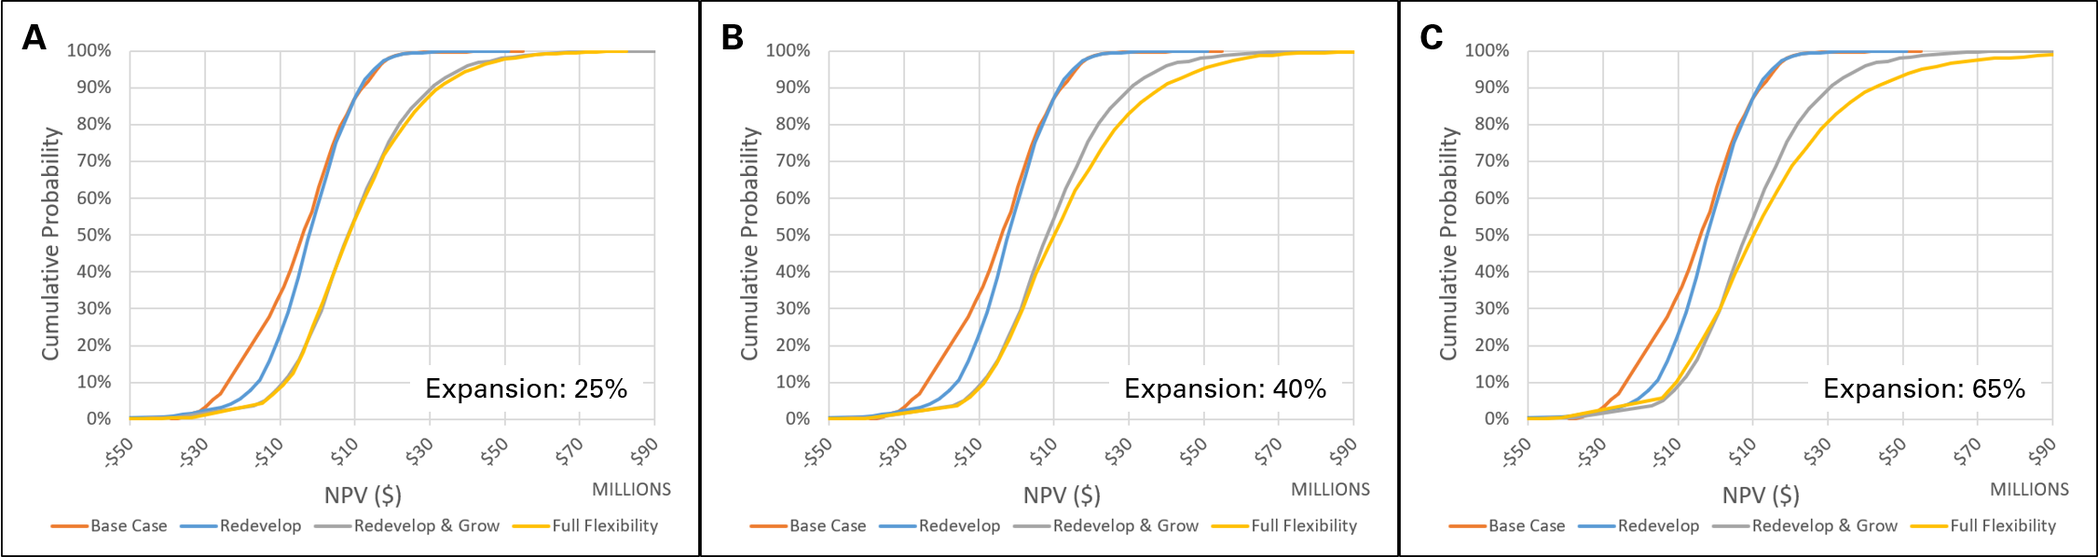
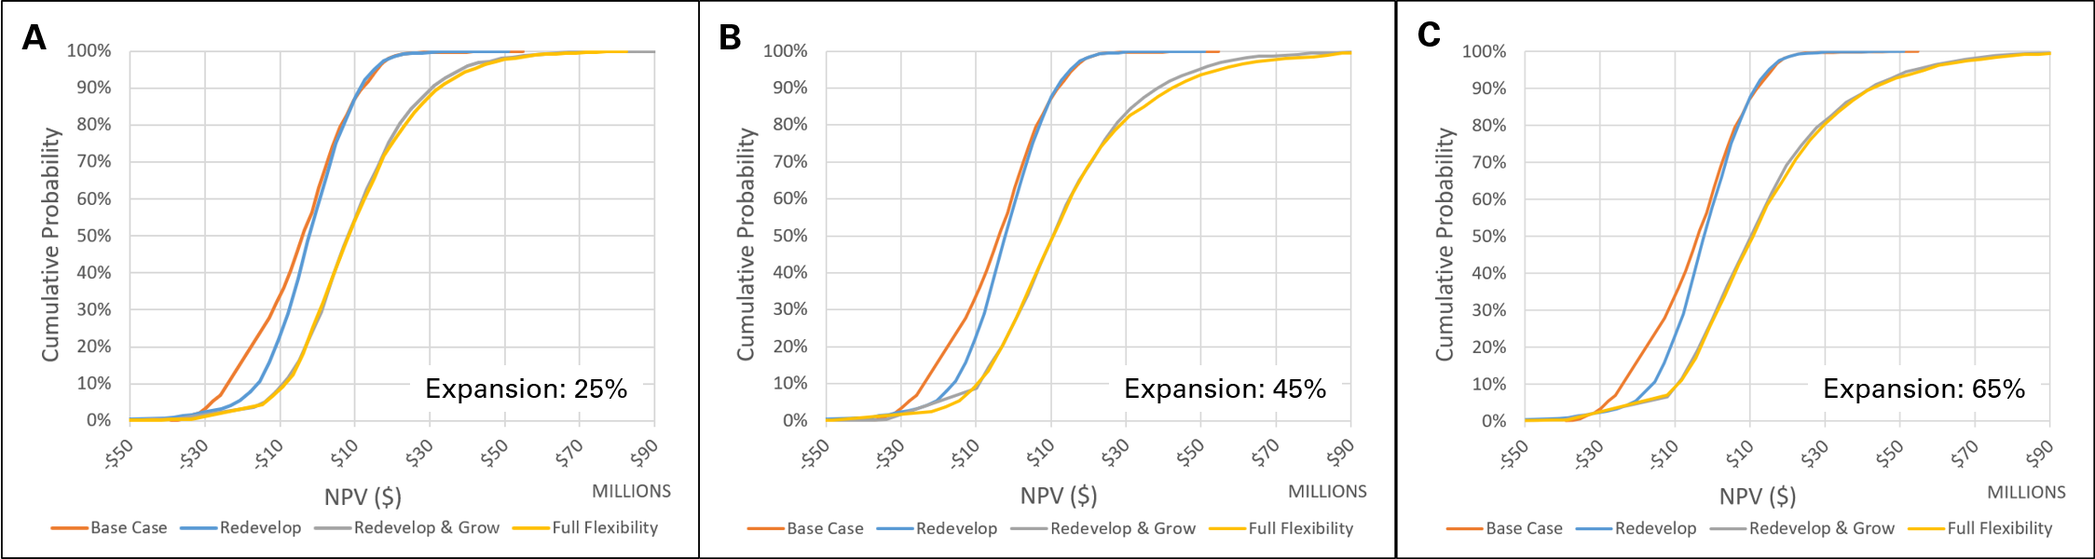
completed Chapters 4 and 6

diff --git a/templates/chap6.tex b/templates/chap6.tex
@@ -10,7 +10,7 @@ Chapter \ref{ch4:cm_prep} outlined the cost modeling strategy for a hypothetical
 
 Section \ref{ch4:cm_rev} described the use of brine effectiveness in the cost model for determining the power output of a binary cycle plant for a given production temperature and flow rate. This formulation provides a choice of how to manage the cost model mechanics due to a trade-off between plant capacity and flow rate for a given brine effectiveness (Equation \ref{eq:cm_rev}).
 
-In addition, installation of the Lightning Dock expansion can take place over a variety of different deployment schedules due to the modularity of the system. Rather than drill ten wells and install five binary cycle plants all at once, delaying aspects of the installation can be financially beneficial and less of an initial risk for the project.  
+In addition, installation of the Lightning Dock expansion can take place over a variety of different deployment schedules due to the modularity of the system. Rather than drill ten wells and install five binary cycle plants all at once, delaying aspects of the installation can be financially beneficial and less of an initial risk for the project.
 
 Figure \ref{fig:static_model_compare} shows the results for the pre-set capacity and pre-set flow rate static models for sixty (60) installation schedule permutations. The pre-set capacity model results in project losses of \$20 million or more for all tested installation options. On the other hand, the fixed flow-rate model only drops below \$0 NPV for a handful of project plans, achieving \$3.7 million NPV for the case marked with a red diamond where three (3) modules are installed up front and two (2) additional ones go live after a year of operation. Based on these results, all cost models used in the rest of this analysis apply a fixed flow rate per production well and derive the aggregate electricity generation numbers based on the temperature of the produced brine.
 
@@ -65,9 +65,9 @@ NPV & \$1.0 \\ \hline
 
 Monte Carlo simulation is applied to all of the probabilistic models to estimate the range of model behavior. For each model, results represent 2000 simulated runs where each realization defines a unique combination of variable values sampled from the PDFs reviewed in Section \ref{ch4:pdfs}. 
 
-Common methods for evaluating a Monte Carlo ensemble include building a NPV histogram, constructing a \acrlong{cdf} (\acrshort{cdf} or target curve), and averaging the results together for \acrlong{enpv} (\acrshort{enpv}). Other interesting metrics for model comparison include standard deviation, individual percentiles, and direct comparison with the static model NPV (NPV$_{s}$). Standard deviation is the measure of how tightly the results cluster around the central value. Distributions with low standard deviations are sometimes referred to as robust distributions. P$_{50}$ marks the the median, and P$_{05}$ and P$_{95}$ define marginal percentiles for 5\% Value At Risk (VAR) and Value At Gain (VAG), respectively. Each of these measures is reported for the probabilistic model cases described below.
+Common methods for evaluating a Monte Carlo ensemble include building a NPV histogram, constructing a \acrlong{cdf} (\acrshort{cdf} or target curve), and averaging the results together for \acrlong{enpv} (\acrshort{enpv}). Other interesting metrics for model comparison include standard deviation, individual percentiles, and direct comparison with the static model NPV (NPV$_{s}$). Standard deviation is the measure of how tightly the results cluster around the central value. Distributions with low standard deviations are sometimes referred to as robust distributions. P$_{50}$ marks the the median, and P$_{05}$ and P$_{95}$ define marginal percentiles for 5\% \acrlong{var} (\acrshort{var}) and \acrlong{vag} (\acrshort{vag}), respectively. Each of these measures is reported for the probabilistic model cases described below.
 
-\section{Base Case Probabilistic Model}
+\section{Base Case Model}
 \label{ch6:base_case}
 
 The Base Case model mimics the Static model in form, but incorporates uncertainties in drilling \& completions costs, electricity pricing, geothermal gradient, reservoir temperature, and thermal drawdown rate to provide a more realistic forecast. No decision rules are included in this scenario. 
@@ -82,14 +82,14 @@ The Base Case ensemble shows a symmetric, pseudo-Gaussian distribution of NPV re
 \begin{figure}[!htp]
 \centering
 \includegraphics[width=.85\textwidth]{templates/images/Figure-Base_Case_Histogram.png}
-\caption[Probabilistic Base Case histogram]{Base Case probabilistic cost model histogram illustrating the distribution of 2000 model realizations. NPV is reported in \$M, where M is million.}
+\caption[Base Case histogram]{Base Case probabilistic cost model histogram illustrating the distribution of 2000 model realizations. NPV is reported in \$M, where M is million.}
 \label{fig:base_case_hist}
 \end{figure}
 
 \begin{figure}[!htp]
 \centering
 \includegraphics[width=.85\textwidth]{templates/images/Figure-Base_Case_CDF.png}
-\caption[Probabilistic Base Case CDF]{Cumulative distribution function for the Base Case probabilistic cost model. The curve summarizes results from 2000 model realizations. NPV is reported in \$M, where M is million.}
+\caption[Base Case CDF]{Cumulative distribution function for the Base Case probabilistic cost model. The curve summarizes results from 2000 model realizations. NPV is reported in \$M, where M is million.}
 \label{fig:base_case_cdf}
 \end{figure}
 
@@ -116,7 +116,8 @@ P95 NPV & \$15.9M \\ \hline
 \label{tab:base_stats}
 \end{table}
 
-\section{Redevelop Case Probabilistic Model}
+\section{Redevelop Case Model}
+\label{ch6:redevelop_case}
 
 The Redevelop Case model extends the Base Case with a redevelopment plan for the geothermal field to counter thermal decline in the fluid pathways through the reservoir. The Redevelopment decision rule (Section \ref{ch4:dr_redevelop}) is triggered when thermal drawdown causes the produced brine to drop below a threshold temperature. As with the Base Case, model uncertainties include drilling \& completions costs, electricity pricing, geothermal gradient, reservoir temperature, and thermal drawdown rate.
 
@@ -130,14 +131,14 @@ Standard deviation of the ensemble distribution is less than observed for the Ba
 \begin{figure}[!htp]
 \centering
 \includegraphics[width=.85\textwidth]{templates/images/Figure-Redevelop_Case_Histogram.png}
-\caption[Probabilistic Redevelop Case histogram]{Redevelop Case probabilistic cost model histogram illustrating the distribution of 2000 model realizations. NPV is reported in \$M, where M is million.}
+\caption[Redevelop Case histogram]{Redevelop Case probabilistic cost model histogram illustrating the distribution of 2000 model realizations. NPV is reported in \$M, where M is million.}
 \label{fig:redevelop_case_hist}
 \end{figure}
 
 \begin{figure}[!htp]
 \centering
 \includegraphics[width=.85\textwidth]{templates/images/Figure-Redevelop_Case_CDF.png}
-\caption[Probabilistic Redevelop Case CDF]{Cumulative distribution function for the Redevelop Case probabilistic cost model. The curve summarizes results from 2000 model realizations. NPV is reported in \$M, where M is million.}
+\caption[Redevelop Case CDF]{Cumulative distribution function for the Redevelop Case probabilistic cost model. The curve summarizes results from 2000 model realizations. NPV is reported in \$M, where M is million.}
 \label{fig:redevelop_case_cdf}
 \end{figure}
 
@@ -164,14 +165,15 @@ P95 NPV & \$15.1M \\ \hline
 \label{tab:redevelop_stats}
 \end{table}
 
-\section{Redevelop \& Grow Case Probabilistic Model}
+\section{Redevelop \& Grow Case Model}
+\label{ch6:grow_case}
 
 The Redevelop \& Grow Case model builds on the Redevelop Case with a decision rule around increasing capacity (Section \ref{ch4:dr_grow}). Specifically, when electricity prices rise by an amount larger than the monitored threshold, more power plant modules are installed to capitalize on the increased prices and inferred demand. Like the other probabilistic models, values for drilling \& completions costs, electricity pricing, geothermal gradient, reservoir temperature, and thermal drawdown rate are directly sampled from probability distribution functions (Section \ref{ch4:pdfs}) as part of the Monte Carlo simulation.
 
 \subsection{Model Results}
 \label{ch6:grow_results}
 
-Redevelop \& Grow model results use a field expansion amount of 25\% when the Grow Capacity decision rule is triggered. Assuming the PPA with the purchasing utility company is successfully renegotiated at the time of the expansion, this model results in a dramatic change in project value. ENPV is \$9.7 million, over \$12 million better than the Redevelop Case and over 800\% greater than Static model NPV (Table \ref{tab:grow_stats}). The case shows notable improvement in both Value at Risk and Value at Gain; P$_{05}$ shifts by more than \$7 million to -\$14.2 million, and P$_{95}$ leaps to \$38.2 million as power plant growth captures market potential.
+Redevelop \& Grow model results use a field expansion amount of 25\% when the Capacity Growth decision rule is triggered. Assuming the PPA with the purchasing utility company is successfully renegotiated at the time of the expansion, this model results in a dramatic change in project value. ENPV is \$9.7 million, over \$12 million better than the Redevelop Case and over 800\% greater than Static model NPV (Table \ref{tab:grow_stats}). The case shows notable improvement in both Value at Risk and Value at Gain; P$_{05}$ shifts by more than \$7 million to -\$14.2 million, and P$_{95}$ leaps to \$38.2 million as power plant growth captures market potential.
 
 \begin{figure}[!htp]
 \centering
@@ -180,12 +182,12 @@ Redevelop \& Grow model results use a field expansion amount of 25\% when the Gr
 \label{fig:grow_case_hist}
 \end{figure}
 
-The histogram for Redevelop \& Grow skews noticeably to the left with a long tail of simulation runs marking high-value realizations of the model. Standard deviation of NPV increases compared to the Redevelop Only case, suggesting this model is less robust. However, the greater spread reflects more upside potential and is a desirable feature. It stands to reason then that robustness measured by standard deviation is not as useful a measure of design benefit as the other metrics in Table \ref{tab:grow_stats}. Figure \ref{fig:grow_case_cdf} illustrates the rightward shift of the target curve compared to those shown in Figures \ref{fig:base_case_cdf} and \ref{fig:redevelop_case_cdf}. Only 23\% of simulated results result in a project loss. 
+The histogram for Redevelop \& Grow skews noticeably to the right with a long tail of simulation runs marking high-value realizations of the model. Standard deviation of NPV increases compared to the Redevelop Only case, suggesting this model is less robust. However, the greater spread reflects more upside potential and is a desirable feature. It stands to reason then that robustness measured by standard deviation is not as useful a measure of design benefit as the other metrics in Table \ref{tab:grow_stats}. Figure \ref{fig:grow_case_cdf} illustrates the rightward shift of the target curve compared to those shown in Figures \ref{fig:base_case_cdf} and \ref{fig:redevelop_case_cdf}. Only 23\% of simulated results result in a project loss. 
 
 \begin{figure}[!htp]
 \centering
 \includegraphics[width=.85\textwidth]{templates/images/Figure-Grow_Case_CDF.png}
-\caption[Probabilistic Redevelop \& Grow Case CDF]{Cumulative distribution function for the Redevelop \& Grow Case probabilistic cost model. The curve summarizes results from 2000 model realizations. NPV is reported in \$M, where M is million.}
+\caption[Redevelop \& Grow Case CDF]{Cumulative distribution function for the Redevelop \& Grow Case probabilistic cost model. The curve summarizes results from 2000 model realizations. NPV is reported in \$M, where M is million.}
 \label{fig:grow_case_cdf}
 \end{figure}
 
@@ -212,27 +214,40 @@ P95 NPV & \$38.2M \\ \hline
 \label{tab:grow_stats}
 \end{table}
 
-\section{Full Flexibility Case Probabilistic Model}
+\section{Full Flexibility Case Model}
+\label{ch6:reduce_case}
+
+Full Flexibility adds a decision rule around reduction of aggregate plant capacity (Section \ref{ch4:dr_reduce}). If electricity prices drop by a threshold amount, power plant modules are proactively decommissioned to reduce electricity production and operating expenses. Redevelopment and Capacity Growth decision rules remain in effect, as does the random sampling treatment for drilling \& completions costs, electricity pricing, geothermal gradient, reservoir temperature, and thermal drawdown rate based on PDFs defined in Section \ref{ch4:pdfs}.
 
 \subsection{Model Results}
 \label{ch6:reduce_results}
 
+In a somewhat surprising outcome, the simulation for Full Flexibility results in an ENPV of \$6.7 million (Table \ref{tab:reduce_stats}). Although this value is 545\% greater than the Static model NPV, it falls short of the Redevelop \& Grow case by nearly \$3 million (see Table \ref{tab:grow_stats}). Both VAR and VAG show less attractive results as well; P$_{05}$ is -\$16.3M and P$_{95}$ is \$36.2 million, both $\approx \$2$ million worse than Redevelop \& Grow.  
+
 \begin{figure}[!htp]
 \centering
 \includegraphics[width=.85\textwidth]{templates/images/Figure-Reduce_Case_Histogram.png}
-\caption[Full Flexibility Case histogram]{CAPTION}
+\caption[Full Flexibility Case histogram]{Full Flexibility Case probabilistic cost model histogram illustrating the distribution of 2000 model realizations. NPV is reported in \$M, where M is million.}
 \label{fig:reduce_case_hist}
 \end{figure}
+
+The results histogram (Figure \ref{fig:reduce_case_hist}) shows the same right skew as the Redevelop \& Grow model but with a slightly more compact form based on the lower standard deviation (Table \ref{tab:reduce_stats}). The difference in median values between the two cases amounts to $\approx\$3$ million, further confirming the Full Flexibility case is entirely dominated by the Redevelop \& Grow case. Figure \ref{fig:reduce_case_cdf} depicts the case target curve. There is a steep climb beginning at -\$14 million such that 33\% of model realizations result in project losses --- 10\% more than Redevelop \& Grow.
 
 \begin{figure}[!htp]
 \centering
 \includegraphics[width=.85\textwidth]{templates/images/Figure-Reduce_Case_CDF.png}
-\caption[Full Flexibility Case CDF]{CAPTION}
+\caption[Full Flexibility Case CDF]{Cumulative distribution function for the Full Flexibility Case probabilistic cost model. The curve summarizes results from 2000 model realizations. NPV is reported in \$M, where M is million.}
 \label{fig:reduce_case_cdf}
 \end{figure}
 
+It is interesting to note that the modeled electricity forecast includes enough volatility to generate cases with both +20\% and -20\% price deviations (Figure \ref{fig:elec_price_prob}), potentially (and perhaps unrealistically) triggering both a capacity expansion and reduction within the same 30-year project lifespan. In addition, since modeled prices increase over time, except briefly when the randomly-placed step-change is negative, lost revenue from the utility forcing PPA renegotiations if electricity pricing went into a multi-year decline (e.g., Low Renewable Technology Cost case in Figure \ref{fig:EFS_electricification}) is not simulated here. These factors may play a role in the dominance of the Redevelop \& Grow case over Full Flexibility.
+
+Nevertheless, there is an additional simple explanation for the model behavior. If power plant modules are decommissioned, the model is more sensitive to the drop in revenue from reduced electricity generation than any benefit realized by discounted OPEX. The cost savings is just not significant enough to make up for less income.
+
 \subsection{Summary Statistics}
 \label{ch6:reduce_stats}
+
+Table \ref{tab:reduce_stats} outlines key statistical measures summarizing the performance of the Full Flexibility Case probabilistic cost model.
 
 \begin{table}[H]
 \centering
@@ -250,34 +265,59 @@ P95 NPV & \$36.2M \\ \hline
 \label{tab:reduce_stats}
 \end{table}
 
-\section{Full Flexibility Sensitivity Testing}
-\label{ch6:sensitivity}
+\section{Combined Model Comparison}
+
+Figure \ref{fig:all_case_cdf} illustrates the target curves for the four (4) probabilistic models discussed in the previous sections. The Base Case model is dominated by all other models on the low-side and merges with the Redevelop Case on the high-side. The Full Flexibility Case greatly improves on the Base and Redevelop Cases. Redevelop \& Grow appears farthest to the right, making it the preferred model for the cost model parameterization as described in Section \ref{ch4:cm_params}. 
 
 \begin{figure}[!htp]
 \centering
 \includegraphics[width=.85\textwidth]{templates/images/Figure-All_Case_CDF.png}
-\caption[All Cases CDF]{CAPTION}
+\caption[All Cases CDF]{Cumulative distribution functions for all probabilistic cases evaluated in Sections \ref{ch6:base_case} to \ref{ch6:reduce_case}. Each curve summarizes results from 2000 model realizations. NPV is reported in \$M, where M is million.}
 \label{fig:all_case_cdf}
 \end{figure}
+
+\section{Full Flexibility Case Sensitivity Testing}
+\label{ch6:sensitivity}
+
+In order to explore the hypothesis that the Full Flexibility Case model is responding to revenue losses, a series of sensitivity tests considered adjustments to the \textit{Reduction amount} parameter controlling how many modules are removed by the Capacity Reduction decision rule (Table \ref{tab:cm_econ_params}, Section \ref{ch4:dr_reduce}). The default value applied throughout this analysis has been 25\% to match the \textit{Expansion amount} parameter used by the Capacity Growth decision rule (Table \ref{tab:cm_econ_params}, Section \ref{ch4:dr_grow}). Sensitivity testing with the \textit{Expansion amount} parameter is also conducted.
 
 \subsection{Reduction Amount}
 \label{ch6:sens_redamt}
 
+The gap between the Full Flexibility (yellow) and Redevelop \& Grow (gray) curves broadens for higher \textit{Reduction amount} values. However, the curves begin to overlap for \textit{Reduction amount} values of $\leq{15}\%$. The difference is subtle, but the 5\% case shows a slight rightward step-out in the high-side values for Full Flexibility compared to the Redevelop \& Grow. This is not seen in the 4\% or 6\% scenarios, suggesting 5\% is the sweet spot for \textit{Reduction amount} when a significant electricity price drop is detected. For values above 5\%, the gain from OPEX reductions cannot overcome revenue lost from reduced capacity, which likely reflects the influence of PPA contracts that stabilize the year-to-year price paid for generated electricity. For values less than 5\%, the Full Flexibility Case merges with the Redevelop \& Grow Case as the number of decommissioned modules trends toward zero (0).
+
 \begin{figure}[!htp]
 \centering
 \includegraphics[width=.98\textwidth]{templates/images/Figure-Sensitivity_Reduction.pdf.png}
-\caption[Reduction Amount sensitivity test]{Reduction Amount sensitivity test}
+\caption[Reduction Amount sensitivity test]{\textit{Reduction amount} sensitivity test using model target curves. Each curve illustrates results for a Monte Carlo simulation with 2000 runs of the indicated models. \textit{Reduction amount} only impacts Full Flexibility Case (yellow), so Base Case (orange), Redevelop Case (blue), and Redevelop \& Grow Case (gray) remain unchanged. \textit{Reduction amount values} include A. 35\%, B. 25\%, C. 15\%, D. 6\%, E. 5\%, and F. 4\%. NPV is reported in \$M, where M is million.}
 \label{fig:sens_test_reduction}
 \end{figure}
 
 \subsection{Expansion Amount}
 \label{ch6:sens_expamt}
 
+A similar sensitivity test is executed by varying the \textit{Expansion amount} parameter while holding \textit{Reduction amount} at 5\%. Both the Full Flexibility and Redevelop \& Grow target curves respond to this parameter since both cases include the Capacity Growth decision rule (Section \ref{ch4:dr_grow}). Figure \ref{fig:sens_test_expansion} illustrates the results for step-wise increases to \textit{Expansion amount} by an increment of 20\%. 
+
+Full Flexibility and Redevelop \& Grow target curves closely match each other except in the high-side model realizations, i.e., those above \$20 million NPV, and in the low-side near -\$20 million NPV. The low side variability relates to the sparse count of model realizations at -\$20 million NPV in each Monte Carlo simulation. For the better-constrained high-side, Full Flexibility shows a slight advantage when \textit{Expansion amount} is 25\% and 65\%. However, the separation is more pronounced for a 45\% \textit{Expansion amount}. In this sweet spot case, Full Flexibility ENPV amounts to \$13.7 million, $\approx\$1$ million greater than that for Redevelop \& Grow. This optimized potential would be missed without testing and refining the project growth and reduction strategies through sensitivity testing and parameter tuning.
+
 \begin{figure}[!htp]
 \centering
 \includegraphics[width=.98\textwidth]{templates/images/Figure-Sensitivity_Expansion_Amount.png}
-\caption[Expansion Amount sensitivity test]{Expansion Amount sensitivity test}
+\caption[Expansion Amount sensitivity test]{\textit{Expansion amount} sensitivity test using model target curves. Each curve illustrates results for a Monte Carlo simulation with 2000 runs of the indicated models. \textit{Expansion amount} impacts both Redevelop \& Grow (gray) and Full Flexibility (yellow) target curves. Base Case (orange) and Redevelop Case (blue) remain unchanged. \textit{Expansion amount values} include A. 25\%, B. 45\%, and C. 65\%. NPV is reported in \$M, where M is million.}
 \label{fig:sens_test_expansion}
 \end{figure}
 
 \section{Recap}
+
+This chapter covered the execution of cost models described in Chapter \ref{ch4:cm_prep}. Results for a deterministic model and four (4) probabilistic models illustrate how incorporating uncertainties and decision rules into a modeling approach can provide important insights into potential project profit and loss. By comparing summary metrics and target curves, this methodology allows a decision-maker to test strategies for mitigating the risk of an unprofitable EGS expansion to an existing power plant.
+\\
+\\
+Key insights from cost modeling include:
+\begin{enumerate}
+    \item Static (deterministic) cost models that use average or most-likely parameter values are inherently flawed. They distort estimates of project value and may lead to poor project decisions.
+    \item Probabilistic model result ensembles from Monte Carlo simulation are best compared using target curves (CDFs) and summary statistics like ENPV. Solution distribution robustness is not necessarily desirable --- imbalance toward the high side means a model has more Value at Gain.
+    \item Redeveloping geothermal wells to counter reservoir thermal decline reduces downside risk but does not improve upside potential for the project.
+    \item Installing additional power plant modules in response to greater demand results in significantly greater project value with reduced downside risk.
+    \item Decommissioning power plant modules in response to plummeting prices generally does not capture greater project value, likely due to the lost revenue from reduced power generation outpacing savings in OPEX in this model formulation.
+    \item Sensitivity testing of decision rule parameters is a means of optimizing operational strategy and can reveal hidden project value.
+\end{enumerate}

diff --git a/templates/chap4.tex b/templates/chap4.tex
@@ -597,15 +597,15 @@ To counteract the negative impact of this decline, a full field re-drill campaig
 \textbf{Redevelopment Decision Rule}
 \label{ch4:dr_redevelop}
 \begin{enumerate}
-	\item Determine \textit{Thermal drawdown threshold} from \textit{Initial average reservoir temperature} using Equation \ref{eq:drawdown_threshold} for $\Delta T_{max}$.
-	\item Use \textit{Thermal drawdown rate} to calculate the number of years until the \textit{Thermal drawdown threshold} is reached based on Equation \ref{eq:redevelop_time}. Store this value in the \textit{Redevelop every} field.
-	\item In the annual cash flow analysis, \textbf{IF} power plant modules were installed a multiple of the \textit{Redevelop Every} years ago \textbf{AND} the year is not within 5 years of \textit{Plant useful life}, \textbf{THEN}:
+	\item Determine the temperature threshold for viable power production using Equation \ref{eq:drawdown_threshold} and the initial reservoir temperature.
+	\item Calculate the number of years until the temperature threshold is reached based on the thermal drawdown rate and Equation \ref{eq:redevelop_time}. This defines the redevelopment interval for the field.
+    \item In the annual cash flow analysis, determine if time since installation of any power plant modules is a multiple of the redevelopment interval. If so and the year being evaluated does not fall within the final 5 years of the project lifespan:
 	\begin{enumerate}
-	    \item Store the number of modules in \textit{Capacity level increase} from \textit{Redevelop every} years ago in the \textit{Units redeveloped} field.
-	    \item Add \textit{Capacity level increase [Input]} for the current year to \textit{Units redeveloped}. Multiply this by \textit{Wells per module} and add to \textit{Wells drilled or redrilled} from the previous year to determine the current year’s \textit{Wells drilled or redrilled}.
-	    \item Determine \textit{CAPEX (Redevelopment)} as \textit{Units redeveloped} $\cdot$ \textit{Total capital costs (drilling)} $\cdot$ \textit{Redevelopment factor}. Scale this value by the learning rate discount of the form $i^B$, where $i$ is \textit{Wells drilled or redrilled} from the previous year and $B$ is the \textit{Learning rate exponent}.
-	    \item Reset \textit{Heat inlet temperature} to \textit{Production temperature (@WH)}.
-	\end{enumerate}
+	    \item Identify how many modules need to be redeveloped. Multiply this by 2 to define the number of wells being sidetracked (or redrilled). This assumes the wells are in pairs for each module.
+	    \item Calculate CAPEX for redevelopment by multiplying the drilling costs per well by the number of wells being reworked, then discount by the pre-determined redevelopment factor. Scale this by the learning rate discount based on the number of wells already drilled since field operations began.
+	    \item Update the running tally of wells drilled or redrilled to include wells from this redevelopment effort.
+	    \item Reset the produced brine temperature to the initial reservoir temperature.
+    \end{enumerate}
 \end{enumerate}
 
 \subsection{Redevelop \& Grow Case}
@@ -616,17 +616,13 @@ Redevelopment of the geothermal field is primarily a mitigation against loss of 
 \textbf{Capacity Growth Decision Rule}
 \label{ch4:dr_grow}
 \begin{enumerate}
-    \item Set the \textit{Auto-renegotiated price} to the \textit{Price forecast} for the current year multiplied by the \textit{Contract rate above wholesale}.
-    \item In the annual cash flow analysis, look up the forecast wholesale electricity price for the current year (p2). Compare this value to the base price (p1) determined the last time \textit{Capacity level increase} was non-zero, i.e., when the last PPA was negotiated. Note that p1 captures the price \underline{before} the \textit{Contract rate above wholesale} mark-up. Calculate \textit{Price deviance} as \(\frac{(p2-p1)}{p1}\). 
-    \item \textbf{IF} \textit{Price deviance} exceeds the \textit{Price trigger for flexibility} and the current year is not within 5 years of \textit{Plant useful life}, \textbf{THEN}:
+    \item In the annual cash flow analysis, look up the predicted wholesale electricity price for the current year and determine the deviance between this price and the wholesale price used in the last PPA contract (i.e., when the last capacity change took place). Here, deviance is defined as: \(\frac{(\text{current price} - \text{past price})}{\text{past price}}\).
+    \item If the deviance exceeds the pre-set price trigger and the year being evaluated does not fall within the final 5 years of the project lifespan:
     \begin{enumerate}
-        \item Multiply the past year’s \textit{Unit count} by the \textit{Expansion amount}. Round this number up to the nearest integer. This is the \textit{Capacity level change [Auto]}.
-        \item Add \textit{Capacity level increase [Input]} + \textit{Capacity level change [Auto]} + \textit{Units redeveloped}. Multiply this by \textit{Wells per module} and add to \textit{Wells drilled or redrilled} from the previous year to determine the current year’s \textit{Wells drilled or redrilled}.
-        \item Add drilling costs to that year’s CAPEX in two parts: new wells and redeveloped wells.
-        \begin{enumerate}
-            \item For the \textbf{CAPEX redevelopment} field, determine the costs as described in the Redevelop Only decision rule.
-            \item For the \textit{CAPEX drilling} field, multiply the sum total of \textit{Capacity level increase [Input]} and \textit{Capacity level change [Auto]} by \textit{Total capital costs (drilling)} and apply the learning rate discount as defined in the Redevelop Only decision rule (\ref{ch4:dr_redevelop}). Note that Total Capital Costs (drilling) is a per-module value, not per well.
-        \end{enumerate}
+        \item Multiply the number of operating power plant modules in the field by the pre-set expansion parameter to determine the number of modules to add.
+        \item Calculate CAPEX for drilling an injector-producer pair for each added module. Scale this value by the learning rate discount based on the number of wells previously drilled or redrilled in the field.
+        \item Update the tallies for the number of modules in the field and the number of wells drilled or redrilled to include the added modules and their wells.
+        \item Determine the new PPA contract price by multiplying the predicted wholesale electricity price for the current year by the pre-determined contract rate above wholesale factor.
     \end{enumerate}
 \end{enumerate}
 
@@ -638,23 +634,25 @@ Price swings can go the opposite direction as well. The NREL Electrification Fut
 \textbf{Capacity Reduction Decision Rule}
 \label{ch4:dr_reduce}
 \begin{enumerate}
-    \item Calculate \textit{Price deviance} as in the Grow Capacity decision decision rule (\ref{ch4:dr_grow}).
-    \item \textbf{IF} \textit{Price deviance} is negative, exceeds the \textit{Price trigger for flexibility} in magnitude, and the current year is not within 5 years of \textit{Plant useful life}, \textbf{THEN}:
+    \item In the annual cash flow analysis, look up the predicted wholesale electricity price for the current year and determine the deviance between this price and the wholesale price used in the last PPA contract (i.e., when the last capacity change took place). Here, deviance is defined as: \(\frac{(\text{current price} - \text{past price})}{\text{past price}}\).
+    \item If the deviance is negative and exceeds the pre-set price trigger (in magnitude), and the current year does not fall within the final 5 years of the project lifespan:
     \begin{enumerate}
-        \item Multiply the past year’s \textit{Unit count} by the \textit{Reduction amount}. Round this number down to the nearest integer and multiply by -1. This is the \textit{Capacity level change [Auto]}.
-        \item Store the sum of the previous year’s \textit{Unit count} and the current year’s \textit{Capacity level change [Auto]} as the current year’s \textit{Unit count}. OPEX is calculated using this value, so any reduction in number of modules will reduce OPEX accordingly.
-        \item WARNING: Do not reduce \textit{Wells drilled or redrilled} using a negative value for \textit{Capacity level change [Auto]}. This variable tracks learning over time and shutting down a module does not negate the experience of drilling that module’s wells.
+        \item Multiply the number of operating power plant modules in the field by the pre-set reduction amount parameter to determine the number of modules to decommission.
+        \item Reduce the count of operating modules in the field to account for taking these modules offline.
+        \item Make sure OPEX is only calculated for operating power plant modules.
+        \item Do not reduce the running tally of wells drilled or redrilled. Shutting down modules does not negate the learning experience of drilling the wells associated with those modules.
     \end{enumerate}
 \end{enumerate}
 
 \section{Recap} \label{ch4:recap}
 
 This chapter covered the methodology for using cost models to mitigate the risk of expanding an existing power facility with geothermal production. The Lightning Dock KGRA and present-day power plant are the subject of a hypothetical 5 MW EGS expansion project. The model assumes a 30-year useful life for the expansion, and construction is based on the deployment of pre-fabricated binary cycle modules with one injector-producer pair per module.
-
+\\
+\\
 The modeling strategy follows a step-wise increase in model complexity:
 \begin{enumerate}
     \item Start with a static model that calculates NPV based on estimates for Revenue, CAPEX, and OPEX. The model includes thermal drawdown of the reservoir, power plant degradation, a learning rate for drilling costs, and a discount rate for the time value of money. All parameters are pre-defined.
-    \item Replace the static model with a probabilistic one by assigning probability density functions to key model parameters. Sensitivity testing high-grades which variables to treat as uncertain in the model. Results are obtained through Monte Carlo sampling to build a solution ensemble, evaluated using ENPV, target curves, and NPV percentiles.
+    \item Replace the static model with a probabilistic one by assigning probability density functions to key model parameters. Sensitivity testing high-grades which variables to treat as uncertain in the model. Results are obtained through Monte Carlo sampling to build a solution ensemble, evaluated by multiple measures like ENPV, target curves, and NPV percentiles.
     \item Incorporate flexibility with design options as decision rules in the probabilistic model. The decision rules being evaluated include: field redevelopment due to thermal drawdown, growth in capacity when prices surge, and capacity reductions when prices decline.
 \end{enumerate}
 

diff --git a/templates/acronyms.tex b/templates/acronyms.tex
@@ -64,5 +64,6 @@
 \newacronym{tp}{TP}{True Positive}
 \newacronym{tpr}{TPR}{True Positive Rate}
 \newacronym{usgs}{USGS}{United States Geological Survey}
-\newacronym{voi}{VOI}{Value of Information}
+\newacronym{vag}{VAG}{Value at Gain}
+\newacronym{var}{VAR}{Value at Risk}
 \newacronym{xgb}{XGB}{XGBoost}

diff --git a/templates/main.tex b/templates/main.tex
@@ -19,7 +19,7 @@
 %%  If you want your thesis copyright to you instead of MIT, use the
 %%  ``vi'' option, as above.
 %%
-\documentclass[%draft,
+\documentclass[draft,
 12pt,vi,twoside,leftblank]{mitthesis}
 %%
 %% If you want blank pages before new chapters to be labelled ``This
